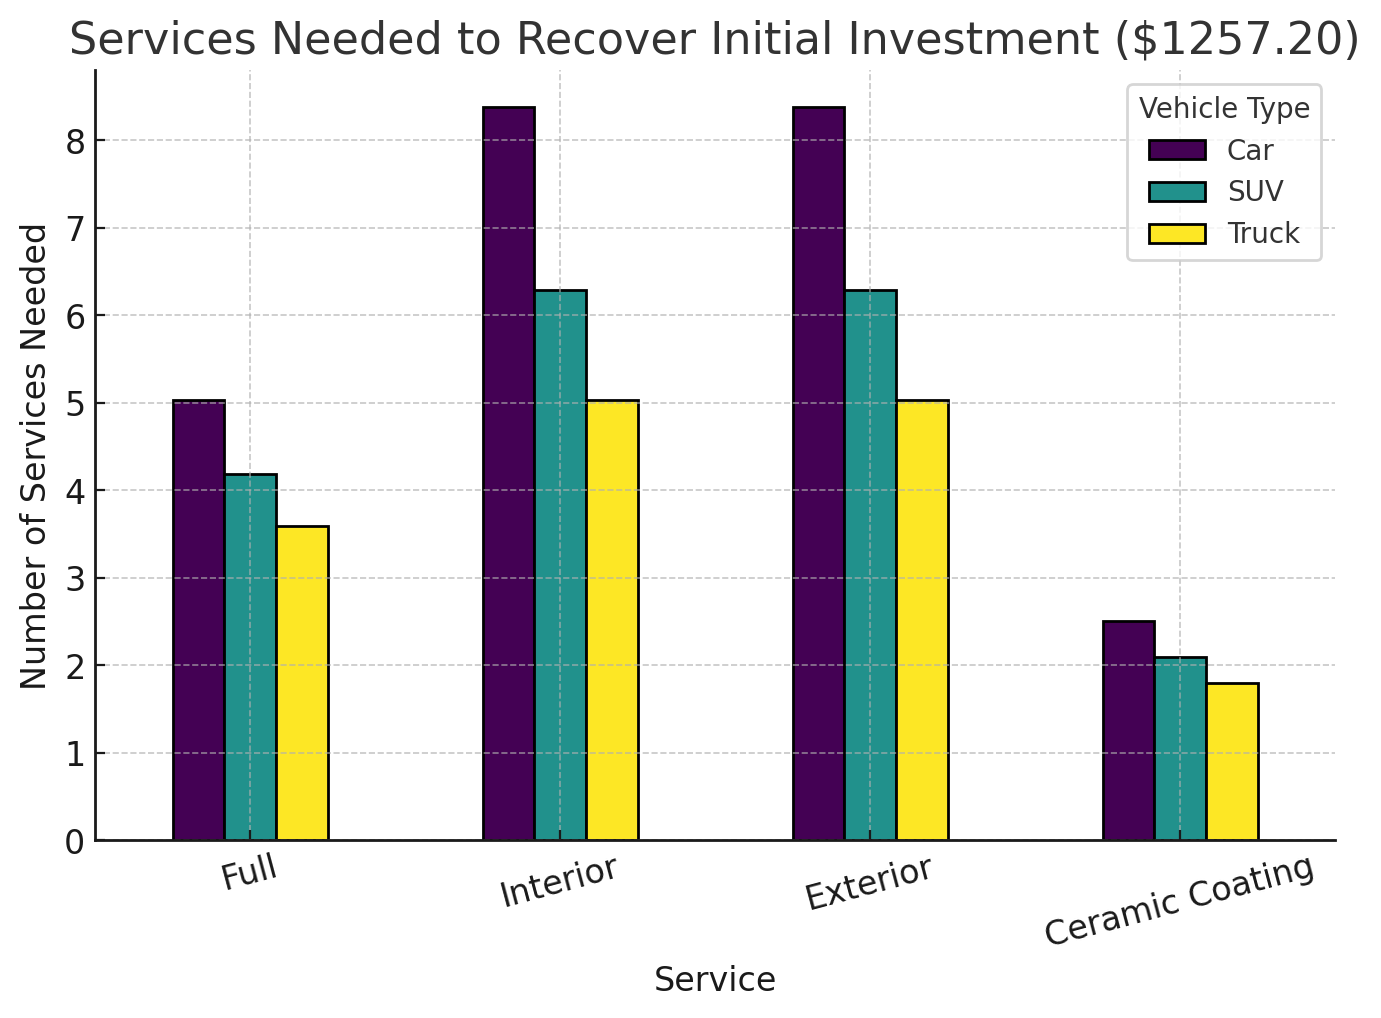
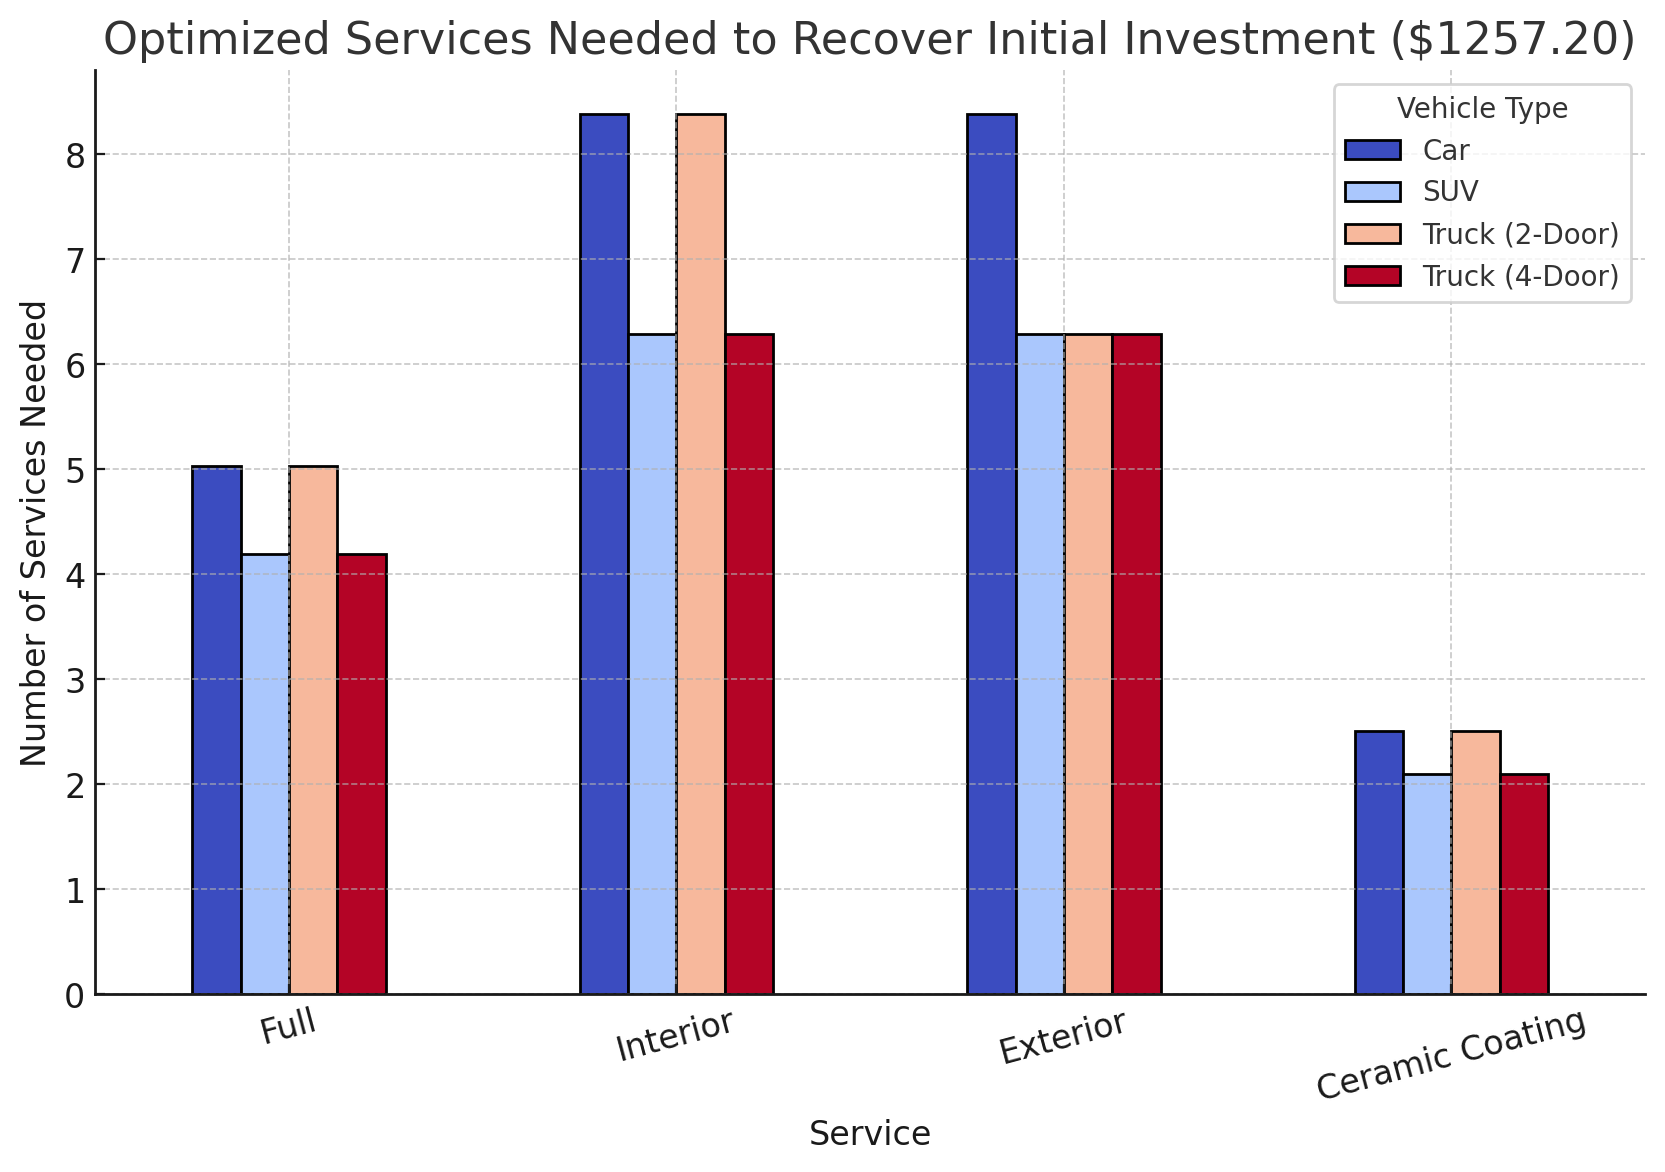
Added public landing page. Cleaned up.

diff --git a/landing_page/index.md b/landing_page/index.md
@@ -1,0 +1,130 @@
+# Sparkle Co. - Premium Auto Detailing
+
+<img src="https://i.ibb.co/27r0d2Vz/sparkle-co-logo-2.jpg" alt="Main Sparkle Co. Logo Image Example 1" style="width:100%;max-width:600px;">
+
+<br>
+
+
+
+
+## 📢 Attention Friends & Family!
+
+Brian, Alexa and Liam are starting a car detailing business and we need your help getting off the ground!
+
+---
+
+<br>
+<br>
+
+
+
+
+## 🏢 About Sparkle Co.
+
+At Sparkle Co., we believe in treating every customer like family. With the most vibrant staff in the auto detailing industry, we ensure that every vehicle gets top-notch care. Whether it's a daily driver or a luxury sports car we use eco-friendly products, cutting-edge technology, and a meticulous hand-wash approach to bring out the best in your vehicle.
+
+Sparkle Co. is your trusted partner in premium automotive detailing. We take pride in delivering exceptional service and treating every vehicle as if it were our own.
+
+🚀 **We don’t just clean cars—we restore brilliance.**
+
+---
+
+<br>
+<br>
+
+
+
+
+## 👪 Family Owned & Operated
+
+We're starting something special—a family-run car wash and detailing service where we not only earn a living but the kids learn the value of hard work, customer service, and running a business. But to get this venture off the ground, we need your support!
+
+As one of our first customers, you'll get a gigantic discount in exchange for an honest review, helping us build our reputation and launch our website. Your support means everything to us, and we promise to treat your car with the same care and attention we would our own!
+
+Book your appointment today and be a part of our journey!
+
+---
+
+<br>
+<br>
+
+
+
+## 📞 Contact Us
+
+- **Call/Text:** [603-264-4801](tel:+16032644801)
+- **Email:** [sparklecoautodetailing@gmail.com](mailto:sparklecoautodetailing@gmail.com)
+
+📆 **Schedule Your Detailing Today!**
+
+---
+
+<br>
+<br>
+
+
+
+## ⭐ Client Reviews
+
+Leave your review [here!](https://form.jotform.com/250898871937175)
+
+These are example reviews. Be the first!
+
+⭐⭐⭐⭐⭐ "Absolutely amazing service! My car looks brand new. Highly recommended!" - Michael, (Nashua, NH)
+⭐⭐⭐⭐⭐ "Best detailing shop in town. They truly care about their customers." – Ben, (Manchester, NH) <br>
+⭐⭐⭐⭐⭐ "Incredible attention to detail. Worth every penny!" - Penny, (Amherst, NH) <br>
+
+---
+
+<br>
+<br>
+
+
+
+
+## 🏆 Why Choose Us?
+- **Family-Owned & Operated** – We treat every car with personal care.
+- **Premium Quality Products** – Only the best for your vehicle.
+- **Experienced Professionals** – Passionate and trained experts.
+- **Satisfaction Guaranteed** – Our goal is your complete happiness.
+
+---
+
+<br>
+<br>
+
+
+
+
+## 📜 Family & Friends Services & Pricing
+
+| Service         | Car           | SUV           | Truck (2dr)   | Truck (4dr)   | Included Services
+|-----------------|---------------|---------------|---------------|---------------|---------------------------------------------------------|
+| Full            | ~~$250~~ $125 | ~~$300~~ $150 | ~~$250~~ $125 | ~~$300~~ $150 | Interior & Exterior Services combined. 
+| Interior        | ~~$150~~ $75  | ~~$200~~ $100 | ~~$100~~ $50  | ~~$200~~ $100 | Interior surfaces deep cleaned, glass cleaned inside & out, interior plastics cleaned and protected, cloth seats cleaned, leather seats cleaned, headliner cleaned, trunk cleaned.
+| Exterior        | ~~$150~~ $75  | ~~$200~~ $100 | ~~$200~~ $100 | ~~$200~~ $100 | Car wash using two-bucket method, one-step polish and wax.
+| Ceramic Coating | ~~$550~~ Ask  | ~~$650~~ Ask  | ~~$650~~ Ask  | ~~$650~~ Ask  | 1 Layer of Ceramic Coating, professional hand wash, clay bar treatment, high gloss polish.
+
+🚗 **Ask about our membership plans for exclusive discounts!**
+
+---
+
+<br>
+<br>
+
+
+
+
+## 💰 Payment Methods Accepted
+
+<img src="https://static-00.iconduck.com/assets.00/square-cash-icon-2048x2048-b2cgacnc.png" alt="Venmo Logo" style="display:inline-block;width:64px;">
+<img src="https://upload.wikimedia.org/wikipedia/commons/8/84/Venmo_logo.png" alt="Venmo Logo" style="display:inline-block;width:64px;">
+<img src="https://upload.wikimedia.org/wikipedia/commons/thumb/4/46/Bitcoin.svg/1024px-Bitcoin.svg.png" alt="Venmo Logo" style="display:inline-block;width:64px;">
+
+---
+
+<br>
+<br>
+
+
+<img src="https://i.ibb.co/gb3CZ0KG/sparkle-co-logo-4.jpg" alt="Main Sparkle Co. Logo Image Example 1" style="width:100%;max-width:600px;">

diff --git a/business_outline/index.md b/business_outline/index.md
@@ -151,12 +151,12 @@ Average pricing for **interior**, **exterior**, and **full-service** detailing f
 
 Services offered with pricing for car, SUV and truck detailing as well as ceramic coating.
 
-| Services            | Car  | SUV | Truck | Included Services                                                         |
-|---------------------|------|-----|-------|---------------------------------------------------------------------------|
-| Full                | $250 | $300 | $350 | Interior & Exterior Services combined. 
-| Interior            | $150 | $200 | $250 | Interior surfaces deep cleaned, glass cleaned inside & out, interior plastics cleaned and protected, cloth seats shampooed, leather seats cleaned and conditioned, headliner stains removed, trunk cleaned.
-| Exterior            | $150 | $200 | $250 | Car wash using two-bucket method, decontamination with Iron-X and clay bar, one-step polish and wax. 
-| Ceramic Coating     | $500 | $600 | $700 | 1 Layer of Ceramic Pro Sport, professional hand wash, clay bar treatment, high gloss polish.
+| Service         | Car   | SUV  | Truck (2dr) | Truck (4dr) | Included Services
+|-----------------|-------|------|-------------|-------------|---------------------------------------------------------|
+| Full            | $250  | $300 | $250        | $300        | Interior & Exterior Services combined. 
+| Interior        | $150  | $200 | $100        | $200        | Interior surfaces deep cleaned, glass cleaned inside & out, interior plastics cleaned and protected, cloth seats shampooed, leather seats cleaned and conditioned, headliner stains removed, trunk cleaned.
+| Exterior        | $150  | $200 | $200        | $200        | Car wash using two-bucket method, decontamination with Iron-X and clay bar, one-step polish and wax.
+| Ceramic Coating | $550  | $650 | $650        | $650        | 1 Layer of Ceramic Pro Sport, professional hand wash, clay bar treatment, high gloss polish.
 
 <p align="right">(<a href="#go-top">back to top</a>)</p>
 
@@ -284,16 +284,18 @@ Grand total: **$1,257.20**
 <a id="the-roi-data"></a>
 ### 📊 The ROI Data
 
-<img src="https://i.ibb.co/tM28tmwH/roi-chart.png" alt="ROI Chart" style="width:100%;max-width:600px;">
+<img src="https://i.ibb.co/35pB7xh8/roi-chart.png" alt="ROI Chart" style="width:100%;max-width:600px;">
+
+\*chart needs to be updated
 
 To recover the initial investment of **$1257.20**, Sparkle Co. would need to perform approximately the following number of services:
 
-| Service           | Car  | SUV  | Truck |
-|------------------|------|------|------|
-| Full            | 5.03  | 4.19  | 3.59  |
-| Interior        | 8.38  | 6.29  | 5.03  |
-| Exterior        | 8.38  | 6.29  | 5.03  |
-| Ceramic Coating | 2.51  | 2.10  | 1.80  |
+| Service         | Car   | SUV   | Truck (2-Door) | Truck (4-Door) |
+|-----------------|-------|-------|----------------|----------------|
+| Full            | 5.03  | 4.19  | 5.03           | 4.19  
+| Interior        | 8.38  | 6.29  | 12.57          | 6.29    
+| Exterior        | 8.38  | 6.29  | 6.29           | 6.29  
+| Ceramic Coating | 2.29  | 1.93  | 1.93           | 1.93  
 
 \*estimates assume the full amount charged for each service will be used to recover the initial investment.
 
